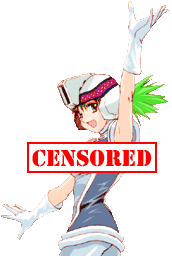
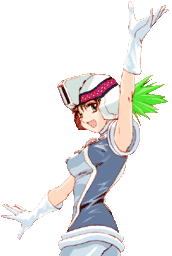
revert april fools
git-svn-id: https://svn.stepmania.com/svn/trunk/stepmania@27926 822b03c2-8f45-0410-a444-95660a741a6f

Changed region(s): [[0.1453, 0.5312, 0.9302, 0.6875]]

diff --git a/src/ProductInfo.h b/src/ProductInfo.h
@@ -9,10 +9,10 @@
 #define PRODUCT_FAMILY_BARE StepMania
 
 // A unique name for each application that you might want installed side-by-side with other applications - i.e. "StepMania4" not "StepMania" (would conflict with StepMania 3.x)
-#define PRODUCT_ID_BARE StepMania4
+#define PRODUCT_ID_BARE StepMania 4
 
 // Version info displayed to the user
-#define PRODUCT_VER_BARE April 1st
+#define PRODUCT_VER_BARE alpha 1
 
 // A unique ID for a build of an application.  This is used in crash reports and in the network code's version handling 
 #define PRODUCT_ID_VER_BARE PRODUCT_ID_BARE PRODUCT_VER_BARE
